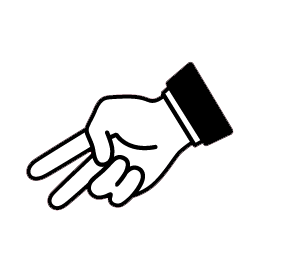
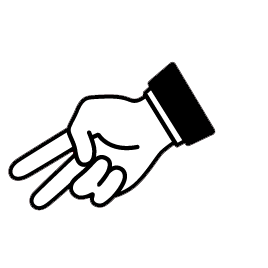
Added RPS

Changed region(s): [[0.0299, 0.3284, 0.5075, 0.806], [0.4478, 0.209, 0.806, 0.6866]]

diff --git a/index.html b/index.html
@@ -155,6 +155,24 @@
           </div>
         </div>
       </div>
+
+      <div class="lights">
+        <div class="card">
+          <img src="Rock-paper-scissor/assets/scissors.png" alt="Rock-paper-scissor"/>
+          <div class="content">RPS</div>
+          <div class="links">
+            <a href="Rock-paper-scissor/index.html" title="Play Game"
+              ><i class="fas fa-2x fa-play"></i
+            ></a>
+            <a
+              href="https://github.com/SubhojeetDas1107/GameZone/tree/main/Rock-paper-scissor"
+              title="Source Code"
+              ><i class="fas fa-2x fa-code"></i
+            ></a>
+          </div>
+        </div>
+      </div>
+
     </div>
     <h3>Contact Me</h3>
     <div class="social">
